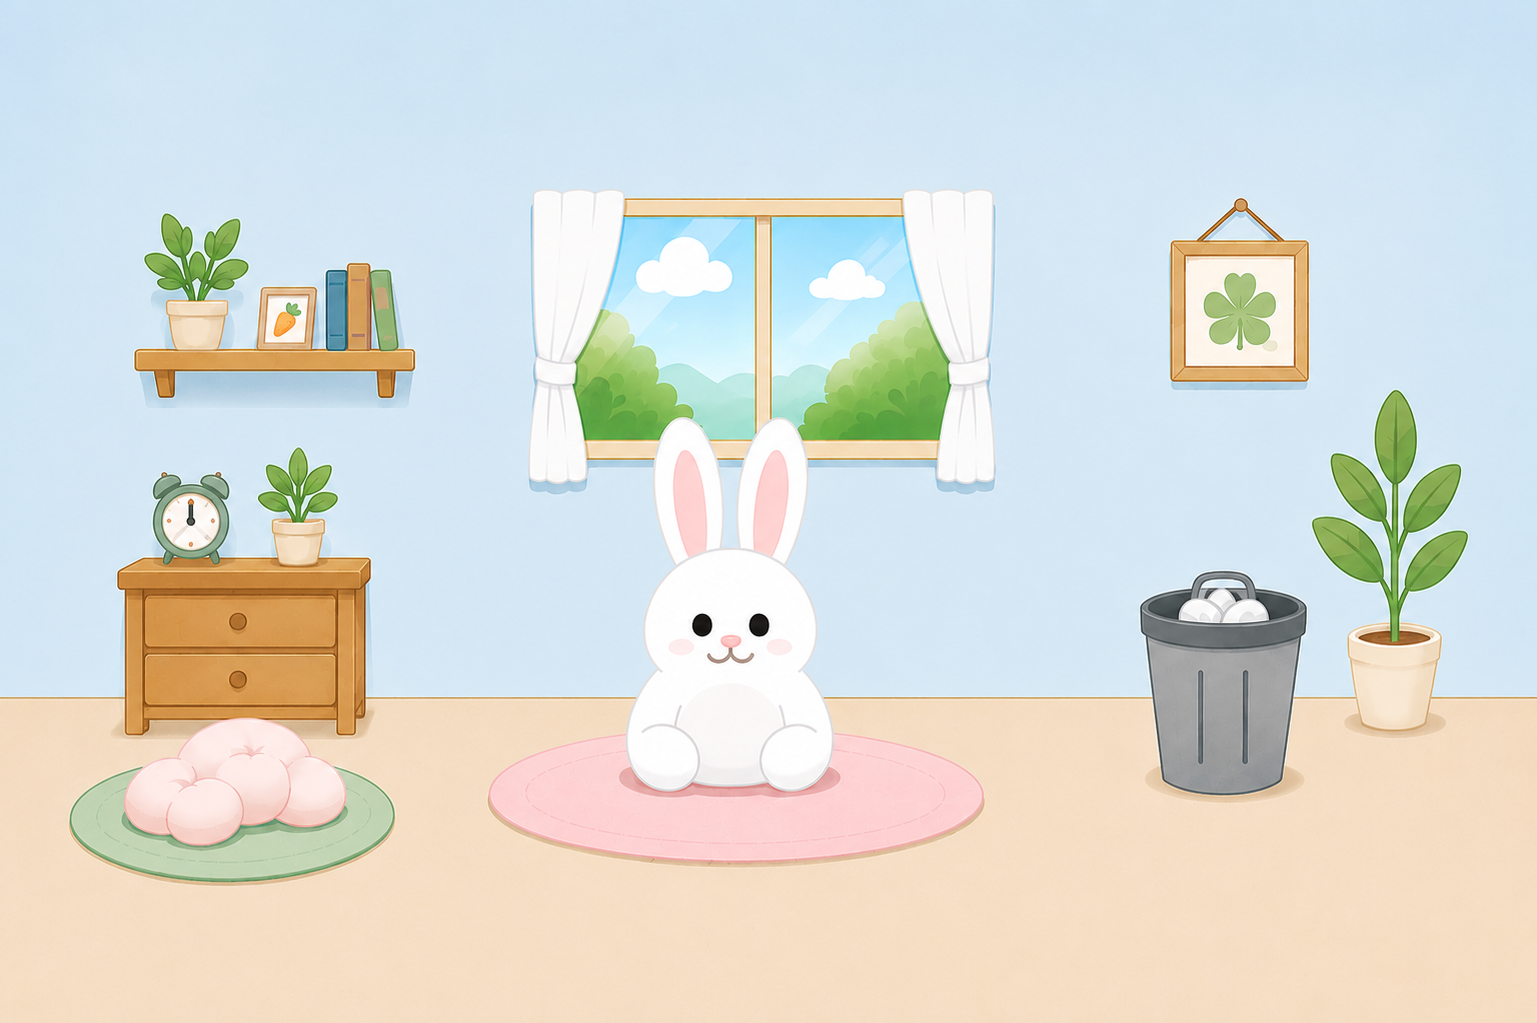
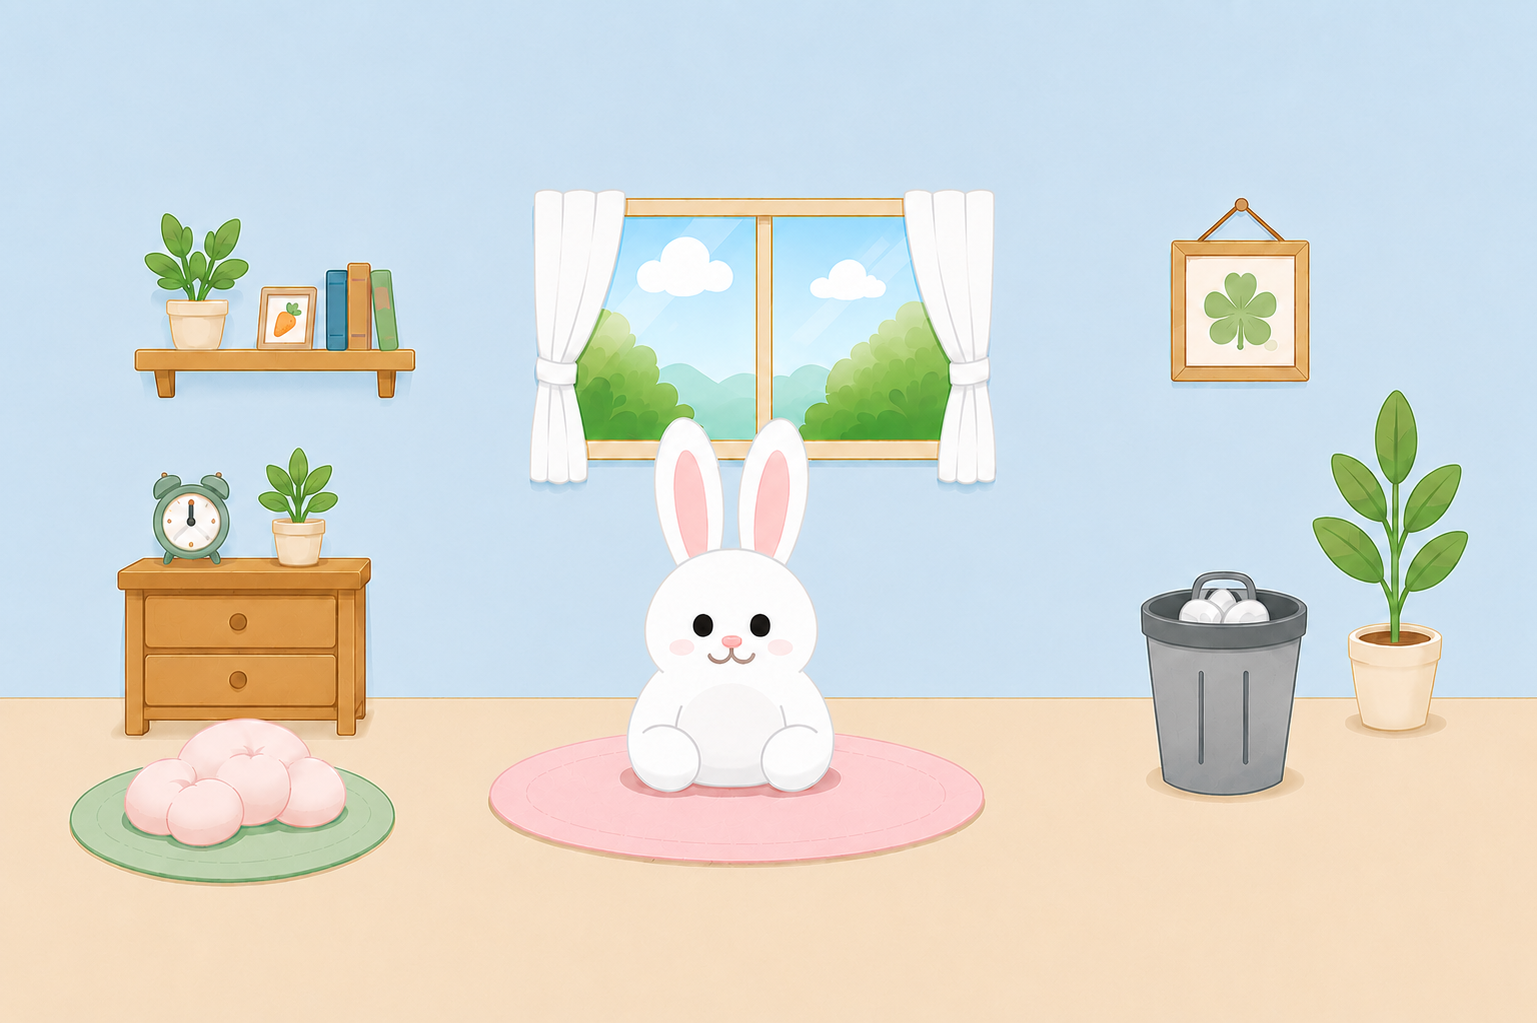
Fix color mismatch on main screen

diff --git a/lib/main.dart b/lib/main.dart
@@ -1144,7 +1144,7 @@ class _FormShell extends StatelessWidget {
   }
 }
 
-class _MainPage extends StatelessWidget {
+class _MainPage extends StatefulWidget {
   const _MainPage({
     required this.tasks,
     required this.expenses,
@@ -1178,7 +1178,69 @@ class _MainPage extends StatelessWidget {
   final GlobalKey trashKey;
 
   @override
+  State<_MainPage> createState() => _MainPageState();
+}
+
+class _MainPageState extends State<_MainPage> {
+  // 背景グラデーションの境界が中央に来る初期値（実測できるまでの仮値）。
+  static const double _defaultBgSplit = 0.39;
+  // 部屋イラスト内の「壁と床の境界線」の、画像の高さに対する割合。
+  static const double _roomFloorLineRatio = 0.683;
+
+  final _bgKey = GlobalKey();
+  final _roomKey = GlobalKey();
+  double _bgSplit = _defaultBgSplit;
+
+  @override
+  void initState() {
+    super.initState();
+    WidgetsBinding.instance.addPostFrameCallback((_) => _updateBgSplit());
+  }
+
+  // 背景グラデーションの境界を、部屋イラスト内の壁と床の境界線が実際に
+  // 描画される位置に一致させる。画面幅やカードの折り返しでレイアウトが
+  // 変わっても常にズレないよう、描画後に実測して補正する。
+  void _updateBgSplit() {
+    if (!mounted) return;
+    final bgBox = _bgKey.currentContext?.findRenderObject() as RenderBox?;
+    final roomBox = _roomKey.currentContext?.findRenderObject() as RenderBox?;
+    if (bgBox == null ||
+        roomBox == null ||
+        !bgBox.hasSize ||
+        !roomBox.hasSize) {
+      return;
+    }
+    final bgTop = bgBox.localToGlobal(Offset.zero).dy;
+    final bgHeight = bgBox.size.height;
+    if (bgHeight <= 0) return;
+    final roomTop = roomBox.localToGlobal(Offset.zero).dy;
+    final roomHeight = roomBox.size.height;
+    final floorLineY = roomTop + roomHeight * _roomFloorLineRatio;
+    final split = ((floorLineY - bgTop) / bgHeight).clamp(0.0, 1.0);
+    if ((split - _bgSplit).abs() > 0.001) {
+      setState(() => _bgSplit = split);
+    }
+  }
+
+  @override
   Widget build(BuildContext context) {
+    // レイアウトが変わるたびに（幅の変化・カードの折り返しなど）再計測する。
+    WidgetsBinding.instance.addPostFrameCallback((_) => _updateBgSplit());
+
+    final tasks = widget.tasks;
+    final expenses = widget.expenses;
+    final poiCount = widget.poiCount;
+    final doneCount = widget.doneCount;
+    final checkedIds = widget.checkedIds;
+    final monthlyBudget = widget.monthlyBudget;
+    final onExpense = widget.onExpense;
+    final onSubscription = widget.onSubscription;
+    final onTask = widget.onTask;
+    final onPoiList = widget.onPoiList;
+    final onTaskCheck = widget.onTaskCheck;
+    final onEditBudget = widget.onEditBudget;
+    final trashKey = widget.trashKey;
+
     final now = DateTime.now();
 
     // 通知日時ありのタスクを優先し、通知日時なしのタスクは末尾に回す。
@@ -1244,8 +1306,11 @@ class _MainPage extends StatelessWidget {
 
     // 画像本来の比率のまま表示する。画面全体の背景（壁色→床色の
     // グラデーション）と地続きに見せるため、ここでは余白を作らない。
+    // アスペクト比は実際に使用する room.png の比率（1537/1023）と
+    // 一致させる。ズレると BoxFit.contain で左右に余白が生まれる。
     final room = AspectRatio(
-      aspectRatio: 700 / 389,
+      key: _roomKey,
+      aspectRatio: 1537 / 1023,
       child: _RoomPanel(poiCount: poiCount, onPoiList: onPoiList, trashKey: trashKey),
     );
 
@@ -1323,19 +1388,29 @@ class _MainPage extends StatelessWidget {
 
     return SingleChildScrollView(
       child: Container(
+        key: _bgKey,
         width: double.infinity,
         // 画面全体の背景を壁色→床色のグラデーションにし、
         // ウサギの部屋のイラストと地続きに見えるようにする。
-        decoration: const BoxDecoration(
+        // 境界の位置（_bgSplit）は固定値ではなく、部屋イラスト内の
+        // 壁と床の境界線の実際の描画位置に合わせて動的に計算する。
+        decoration: BoxDecoration(
           gradient: LinearGradient(
             begin: Alignment.topCenter,
             end: Alignment.bottomCenter,
-            colors: [Color(0xffd8e9f3), Color(0xfff7e8d0)],
-            stops: [0.39, 0.39],
+            colors: const [Color(0xffcde1f1), Color(0xfff5dcbf)],
+            stops: [_bgSplit, _bgSplit],
           ),
         ),
         padding: const EdgeInsets.fromLTRB(14, 14, 14, 24),
-        child: content,
+        // ブラウザ幅を広げてもウサギの部屋の画像や各カードが際限なく
+        // 引き伸ばされないよう、コンテンツ全体の最大幅を制限して中央寄せにする。
+        child: Center(
+          child: ConstrainedBox(
+            constraints: const BoxConstraints(maxWidth: 960),
+            child: content,
+          ),
+        ),
       ),
     );
   }
